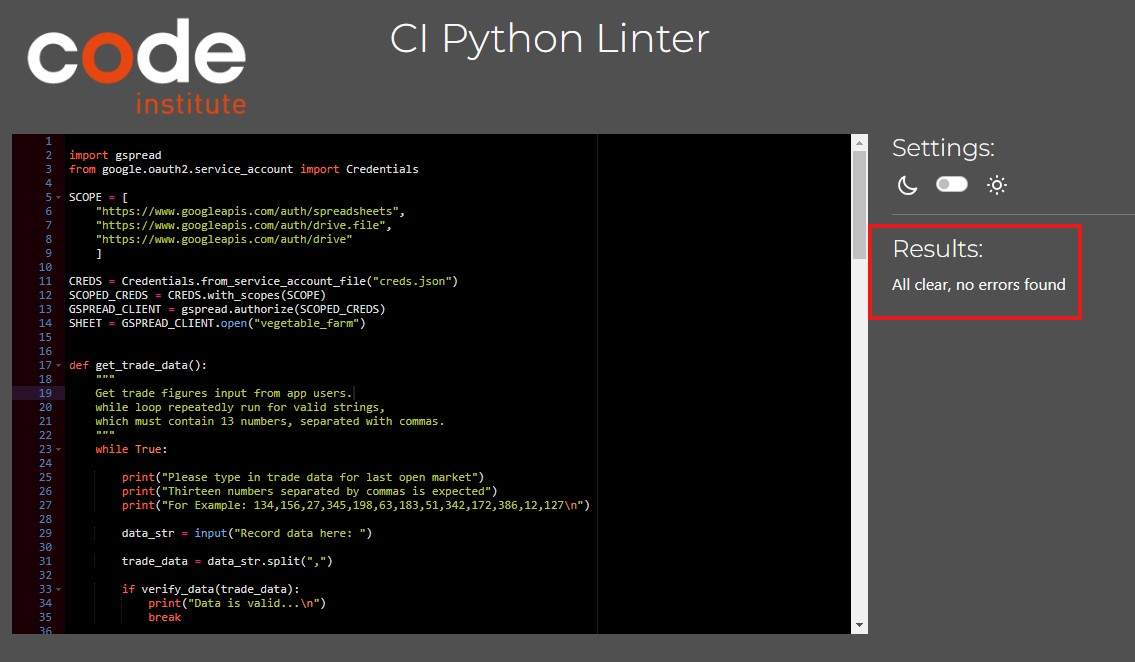
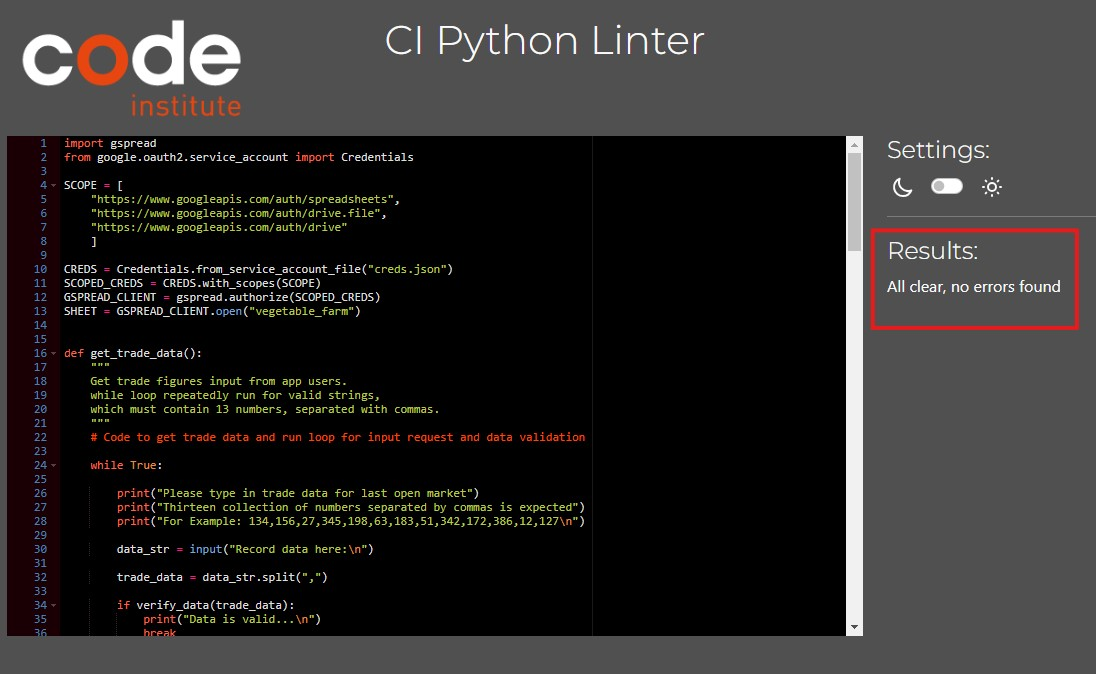
Update manual test on README.md

Changed region(s): [[0.0, 0.1813, 0.9927, 0.9668], [0.0, 0.0302, 0.2172, 0.1813], [0.3412, 0.0302, 0.6515, 0.0906]]

diff --git a/run.py b/run.py
@@ -19,7 +19,7 @@ def get_trade_data():
     while loop repeatedly run for valid strings,
     which must contain 13 numbers, separated with commas.
     """
-    # Code to get trade data and run loop for input request and data validation
+    # Code to input trade data and run loop for input request and data validation
 
     while True:
 

diff --git a/README.md b/README.md
@@ -71,8 +71,9 @@ Manually tested this project by passing the code through a [PEP8 Python Linter](
 |Input must be numeric integers|Ensure user enters integers with no alpha or alphanumeric entries|Enter 13 trade data with alphanumeric entries|Invalid data error message ![Integer](./assets/readme-images/Integer.jpg)|
 |Input must be 13 digits separated with commas|Ensure user enters the correct number of data to match variety of vegetable on the farm|Enter integers that are not equal to 13 entries|Invalid data error message ![values](./assets/readme-images/numbeofvalues.jpg)|
 |Trade worksheet updated when valid data is entered|Automatically update trade worksheet to with to match details entered for each vegetable|Enter valid data: 13 integers separated with commas|Valid data message printed on terminal and updates worksheet ![trade](./assets/readme-images/trade.jpg) ![trade worksheet](./assets/readme-images/tradews.jpg)|
-|Calculated excess and updated worksheet|Automatically calculate excess by subtracting trade from harvest and update worksheet |Enter valid data: 13 integers separated with commas|Excess progression tasks  printed on terminal and excess worksheet updated ![excess](./assets/readme-images/excess.jpg) ![excessws](./assets/readme-images/excessws.jpg)|
-|Harvest with 20% forecast  calculated and worksheet updated|Automatically calculate average harvest with 20% markup |Enter valid data: 13 integers separated with commas|Harvest progression tasks printed on terminal and harvest worksheet updated ![harvest](./assets/readme-images/harvest.jpg) ![harvestws](./assets/readme-images/excessws.jpg)|
+|Calculated excess and updated worksheet|Automatically calculate excess by subtracting trade from harvest and update worksheet |Enter valid data: 13 collection of integers separated with commas|Excess progression tasks  printed on terminal and excess worksheet updated ![excess](./assets/readme-images/excess.jpg) ![excessws](./assets/readme-images/excessws.jpg)|
+|Harvest with 20% forecast  calculated and worksheet updated|Automatically calculate average harvest with 20% markup |Enter valid data: 13 collection of integers separated with commas|Harvest progression tasks printed on terminal and harvest worksheet updated ![harvest](./assets/readme-images/harvest.jpg) ![harvestws](./assets/readme-images/excessws.jpg)|
+|Print vegetable types and corresponding next day harvest forecast on terminal|Print next day vegetable harvest numbers on terminal|Enter valid data: 13 collection of integers separated with comma|Vegetable types and corresponding next day harvest forecast printed on terminal ![next day](./assets/readme-images/nextday.jpg)|
 
 ## Technologies Used
 
